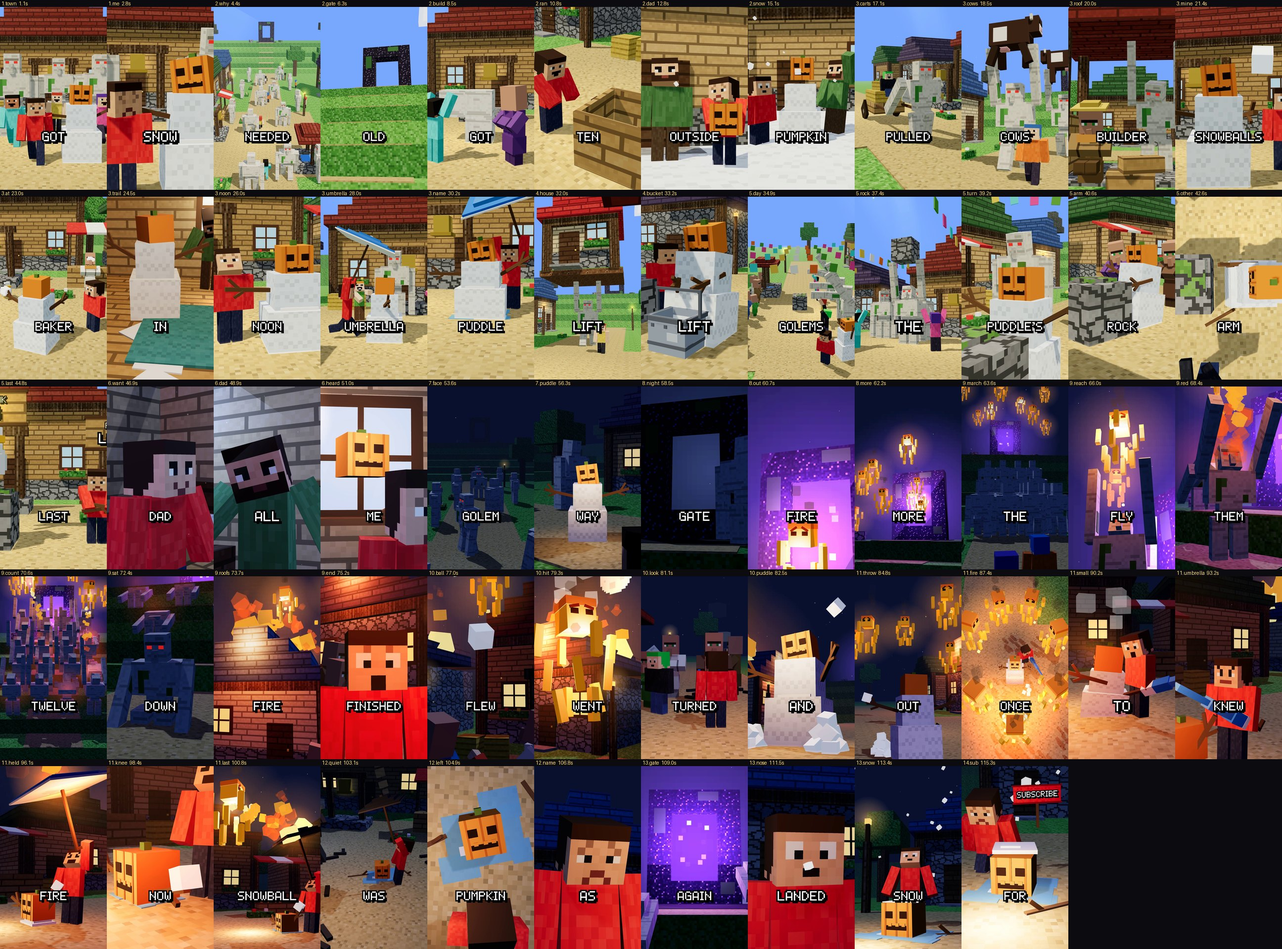
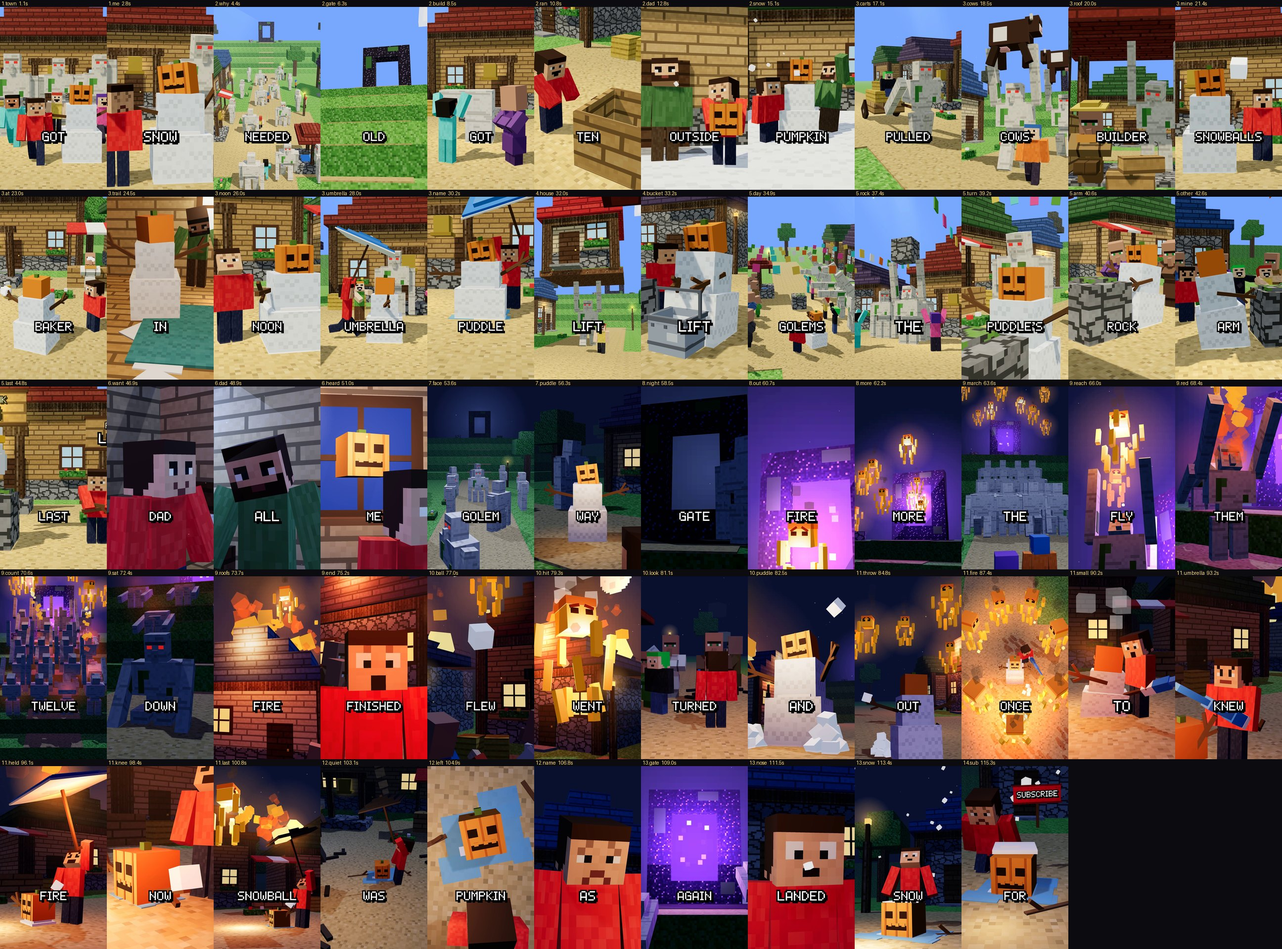
Iron Golem film: contact sheet of the second render, owner log

diff --git a/Topics/InThisTown/OWNER.md b/Topics/InThisTown/OWNER.md
@@ -132,3 +132,9 @@ Taken from the outlines he wrote himself (`outlines/`) and from what he said abo
   picked the fourth (`voice-03` of that session; the clips are in
   `public/audio/in-this-town-every-kid-got-an-iron-golem/raw/`). He has not said what he thinks of the full track, the
   mix or the film: nobody has listened to the mix.
+- **2026-11-15, the snow golem film, checked from the render.** Three frames of every shot were pulled out of the mp4
+  and looked at; fifteen shots were changed and the film rendered again. What the stills by shot had missed: a night
+  street shot from 20 m is only fog (light it and go closer); a window in a night room was daylight blue; a top shot
+  of a golem losing an arm could not be read (shot again from the side, with the town laughing behind); people cut in
+  half by the edge of the frame in six shots; a face light close to sand burns the ground white. Look at the mp4, not
+  only at the stills, before saying a film is done.
